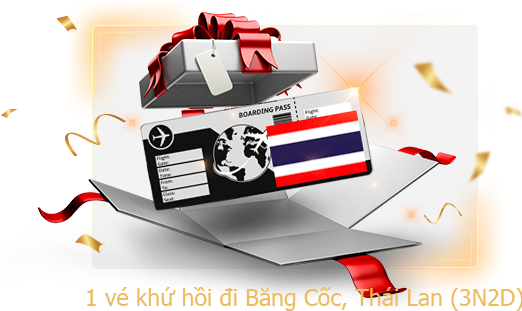
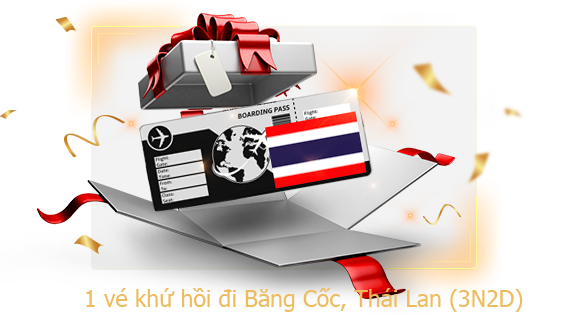
Duc add new images popup rewards

diff --git a/home-pirzes.html b/home-pirzes.html
@@ -50,11 +50,10 @@
                     </div>
                     <div class="modal-body">
                         <p class="kl_modal_title text-center kl_modal_title_size">
-                            Xin chúc mừng
-                            <!-- <img src="images/xin-chuc-mung.png" alt="Xin Chuc Mung"> -->
+                            Xin chúc mừng !
                         </p>
                         <p class="kl_modal_title text-center">
-                            <img src="images/gift.png" alt="Gift">
+                            <img src="images/modal-2-Return-ticket-to-KL-Malaysia-(3D2N).png" alt="Gift">
                         </p>
                         <p class="kl_numberGift">
                             <span class="kl_text_yellow">87651</span>

diff --git a/css/style.css b/css/style.css
@@ -262,7 +262,7 @@ h1, h2, h3, h4, h5, h6, p {
     font-size: 42px;
 }
 .kl_modal_prizes .kl_numberGift {
-    margin-bottom: 30px;
+    margin: 20px 0 30px;
     position: relative;
     text-align: center;
 }
@@ -349,7 +349,7 @@ h1, h2, h3, h4, h5, h6, p {
 
 .line  img {
     width: 100%;
-    height: 1px;
+    height: 2px;
     margin: 0 auto;
 }
 .kl_register {
